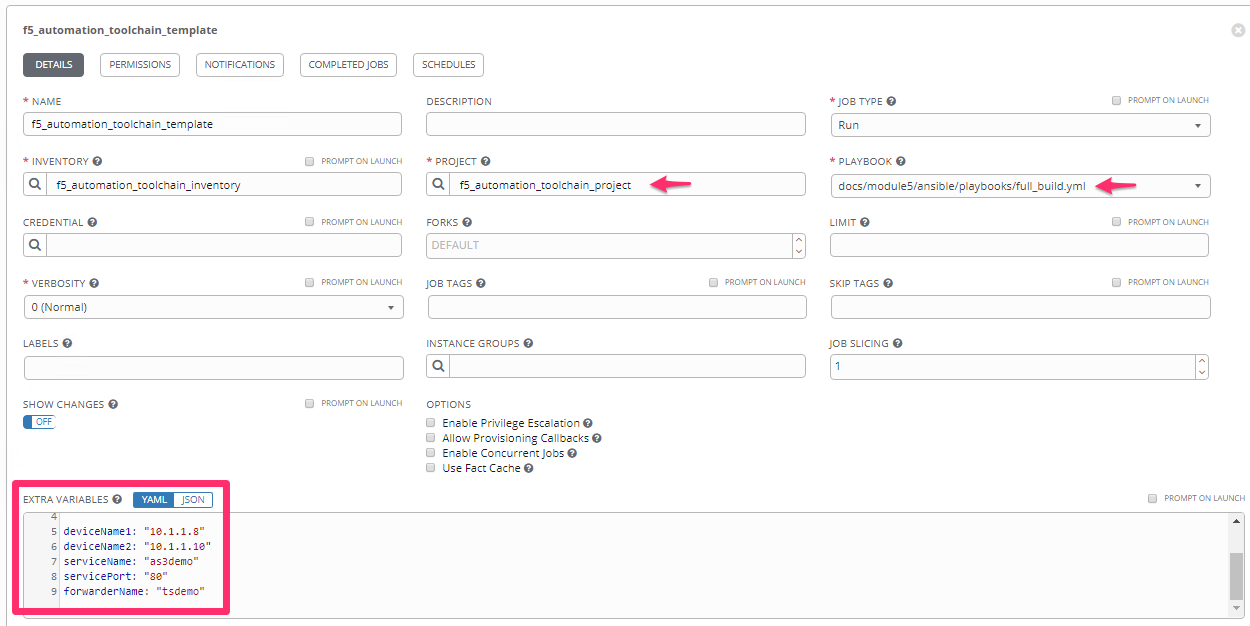
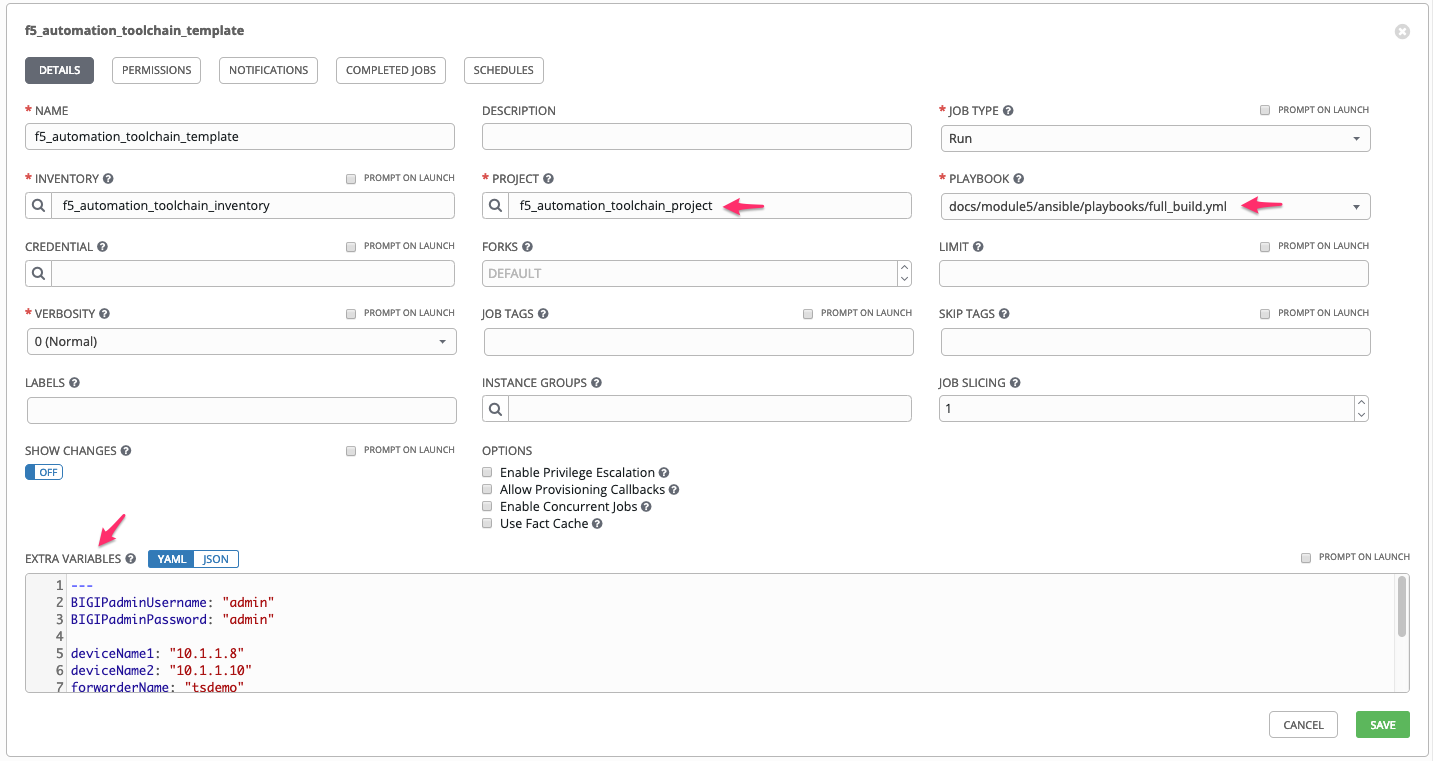
clean up grammarly

Changed region(s): [[0.0, 0.0, 0.9984, 1.0]]

diff --git a/docs/module5/lab1.rst b/docs/module5/lab1.rst
@@ -6,24 +6,25 @@ Lab scenario:
 
 |image1| Ansible Tower
 
-F5 Declarative Onboarding, Application Services 3, and Telemetry Streaming are solutions that function well in within templated environments. The use of single declarative configuration files and idempotent solutions create scenarios where a system can progress from Continious Delivery, to Continious Deployment.
+F5 Declarative Onboarding, Application Services 3, and Telemetry Streaming are solutions that function well in within templated environments. The use of single declarative configuration files and idempotent solutions create scenarios where a system can progress from Continuous Delivery to Continuous Deployment.
 
-Ansible Tower has been installed into this lab to show the possibility of an orchestration engine with the capabilities for large scale deployments. Tower has many features which will not be covered in this lab, however, two concepts that **are** covered are Projects and Templates.
+Ansible Tower has been installed into this lab to show the possibility of an orchestration engine with the capabilities for large scale deployments. Tower has many features which will not be covered in this lab; however, two concepts that **are** covered are Projects and Templates.
 
 Objects highlighted in this module.
-  - A Project is a collection of Ansible objects in relation to each other. 
-  - A Template is a subset of project, and Ansible Playbook, which run Role(s) including modules.
 
-The entirety of this lab is created in Source Control, with different tools using different parts; Postman we imported our collection directly from the lab SCM, the documention and configuration examples are all pulled from the same source, giving the purpose as a Source-of-Truth. We are now going to integrate Module5 of this lab into Ansible Tower.
+  - A Project_ is a logical collection of Ansible playbooks, represented in Tower.
+  - A job Template_ is a definition and set of parameters for running an Ansible job.
 
-Ansible Tower will read this labs GitHub repository looking for an `ansible.cfg` file, this file will present logical pathings for objects to be used in an Ansible Project.
+The entirety of this lab is in Source Control, with different tools using different parts; Postman we imported our collection directly from the lab SCM, the documentation and configuration examples are all pulled from the same source, giving the purpose as a Source-of-Truth. We are now going to integrate Module5 of this lab into Ansible Tower.
+
+Ansible Tower will parse this lab GitHub repository looking for an `ansible.cfg` file, this file presents logical paths for objects used in an Ansible Project.
 
 Task |labmodule|\.\ |labnum|\.1
 ~~~~~~~~~~~~~~~~~~~~~~~~~~~~~~~
 
 Ansible Tower has been installed and configured ready to be executed.
 
-.. seealso:: Within the Postman Collection for this lab is the Ansible Tower configuration that was used. `Module 5 - CI/CD with Ansible Tower` was used to License and configure Tower objects.
+.. seealso:: The Postman Collection for this lab also contains the Ansible Tower configuration. `Module 5 - CI/CD with Ansible Tower` was used to License and configure Tower objects.
 
   |image2|
 
@@ -49,11 +50,11 @@ Navigate to the `f5_automation_toolchain_project`.
 
   |image5|
 
-The project will pull in its configuration from GitHub, the `SCM URL` is the repository containing all our lab. The other Update settings that are in use are because we use template created objects (jinja2 files) which we want cleared out on an update to not cause any overlapping issues.
+The project pulls in its configuration from GitHub, and the `SCM URL` is the repository containing all our lab. The other Update settings used are because we use template created objects (jinja2 files) which we want to be cleared out on an update to not cause any overlapping issues.
 
   |image6|
 
-The repository for this lab is public, ansible.cfg instructs Ansible Tower where it need to lookup Ansible specific object (Roles and Playbooks)
+The repository for this lab is public, ansible.cfg instructs Ansible Tower where it needs to lookup Ansible specific object (Roles and Playbooks)
 
   |image7|
 
@@ -63,11 +64,11 @@ Return to the `Projects` Tab. We need to update our Ansible Tower from Source Co
 
   |image8|
 
-This will trigger an Ansible Tower `Job` to go get the current configuration. This is viewed in `Jobs` and tagged as an `SCM Update`.
+This operation triggers an Ansible Tower `Job` to get the current configuration, this is viewed in `Jobs` and tagged as an `SCM Update`.
 
   |image9|
 
-Navigating into the Job exposes the tasks and console of how the job preformed.
+Navigating into the Job exposes the tasks and console of how the job performed.
 
   |image10|
 
@@ -85,61 +86,69 @@ Navigate to the `f5_automation_toolchain_template`.
 The Template is wrapped around our Project created previously, within the Template is where we organize and set the resources we want executes.
 
 In this Template we are going to use:
+
 - Our Project imported from SCM `f5_automation_toolchain_project`
 - Our Inventory (localhost) as our Ansible target
 - A playbook located at `docs/module5/ansible/playbooks/full_build.yml`
-  - Extra Variables for the Roles
+- Extra Variables
 
-  |image11|
+  |image12|
 
-.. codeblock:: yaml
-    ---
-    BIGIPadminUsername: "admin"
-    BIGIPadminPassword: "admin"
+Extra Variable include:
+.. literalinclude :: files/f5_automation_toolchain_template_extra_variables.yml
+   :language: yaml
 
-    deviceName1: "10.1.1.8"
-    deviceName2: "10.1.1.10"
-    serviceName: "as3demo"
-    servicePort: "80"
-    forwarderName: "tsdemo"
+.. Note:: There are other Playbooks in this SCM repository. Specifically, there is one for each of our Automation Toolchain objects and the full_build. The full_build runs all the roles for each of the Automation Toolchain objects together.
 
-.. Note:: There are other Playbooks in this SCM repository, specifically there is one for each of our Automation Toolchain objects, and the full_build. The full_build will run all the roles for each of the Automation Toolchain objects together.
+.. Note:: Our Ansible Role references the same AS3 declaration used in documentation, and also used in Postman. Its a perfect example of source control.
 
-.. Note:: Our Ansible Role contains our AS3 declaration that is used in this documentation, which was also used in Postman. Its a perfect example of source control.
+Return to the `Projects` Tab. We are going to deploy our Template which will stitches together all its objects and runs against our BIG-IPs.
 
-Return to the `Projects` Tab. We are going to deploy our Template which will stitch together all its objects and run against our BIG-IPs.
+``Deploy`` the Template by clicking the Deploy icon.
 
-``Deploy`` the Template by clicking the deploy icon.
+  |image13|
 
-  |image11|
+The Template deploys all the code we have used previously in our Postman module; however, because the Automation Toolchain objects are idempotent, no change is enacted on the BIG-IPs. 
 
-Our Template will deploy all the code we've used previously in our Postman module, but because everything is idempotent, no change will be inacted on the BIG-IPs. The Automation Toolchain objects look through all 4 declarations that are coming for deltas, finding none, no action will need to be taken.
+  |image14|
 
-.. Note:: At this point we have progressed into a solution that could be Continiously Delvered. 
+.. Note:: At this point, we have progressed into a solution that could be Continuously Delivered. 
 
 Task |labmodule|\.\ |labnum|\.4
 ~~~~~~~~~~~~~~~~~~~~~~~~~~~~~~~
 
 Mutation of objects and reusable items.
 
+Template systems with single configuration files can lead to many "Snow-Flake" configuration items if not thought about early in the process. Without the use of parameters, the solution created in this lab would only be useful for one deployment. To highlight how a solution AS3 can be reused we are going to change some of the extra variables in our Template to create more deployments that use the template however are for different applications.
 
+This lab is currently running 3 applications. Through this point of the lab we have been doing all our work against the `F5 Hello World` application, we are now going to use the same template we have crafted to deploy services to access the `Hackazon` and `DVWA` application.
 
+This Table represents the applications and extra variables we will use to create our additional deployments.
 
++--------------------+-----------+-------------------+-------------------+-------------+
+| **Application**    | partition | virtualAddresses1 | virtualAddresses2 | servicePort |
++--------------------+-----------+-------------------+-------------------+-------------+
+| **F5 Hello World** | Module_03 | 10.1.20.110       | 10.1.20.111       | 8081        |
++--------------------+-----------+-------------------+-------------------+-------------+
+| **Hackazon**       | Hackazon  | 10.1.20.112       | 10.1.20.113       | 80          |
++--------------------+-----------+-------------------+-------------------+-------------+
+| **DVWA**           | DVWA      | 10.1.20.114       | 10.1.20.115       | 8082        |
++--------------------+-----------+-------------------+-------------------+-------------+
 
+Return to the `f5_automation_toolchain_template` in Ansbile Tower.
 
-Directives:
+Located at the bottom of the template are the extra variables, manipulate the variables to deploy one or both of our additional applications.
 
-.. Note:: Note
-.. Warning:: Warning
-.. SeeAlso:: See Also
+  |image15|
 
-Image:
+Save the Template with your new variables defined and rerun the template.
 
-  |image1|
+.. note:: You can reuse a Job after it is been run if you did not want to save the template each time you can return to a previously run Job and run with new variables.
 
-URL:
+  |image13|
 
-CloudDocs_
+This concludes Module 5 and utilizing Ansible Tower for Templates and Jobs to create reusable items.
+
 
 .. |labmodule| replace:: 5
 .. |labnum| replace:: 1
@@ -162,5 +171,7 @@ CloudDocs_
 .. |image11| image:: images/image11.png
 .. |image12| image:: images/image12.png
 .. |image13| image:: images/image13.png
+.. |image14| image:: images/image14.png
 
-.. _CloudDocs: https://clouddocs.f5.com
+.. _Project: https://docs.ansible.com/ansible-tower/latest/html/userguide/projects.html
+.. _Template: https://docs.ansible.com/ansible-tower/latest/html/userguide/job_templates.html

diff --git a/index.rst b/index.rst
@@ -8,8 +8,11 @@ Welcome to F5 Automation Toolchain Lab Documentation!
 
 This lab was authored by Jon Calalang (jmcalalang_) with amazing contributions from: 
 
+(Alphabetical)
+
 - Chris Adrian
 - Terrance Kam (tkam8_)
+- Wojciech Wypior (wojtek0806_)
 - Yossi Rosenboim (yossi-r_)
 
 .. toctree::
@@ -30,4 +33,5 @@ Indices and tables
 
 .. _jmcalalang: https://www.github.com/jmcalalang
 .. _tkam8: https://www.github.com/tkam8
+.. _wojtek0806: https://github.com/wojtek0806
 .. _yossi-r: https://www.github.com/yossi-r

diff --git a/docs/module3/lab1.rst b/docs/module3/lab1.rst
@@ -80,7 +80,7 @@ Configuration Items in our declaration:
 Declaration for BIGIP1:
 
 .. literalinclude :: ../module5/ansible/roles/application_services_3/files/as3_ssl_redirect.json
-   :language: json
+   :language: text
 
 Copy **all of** the AS3 declaration.
 
